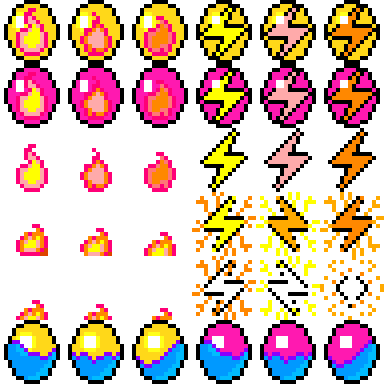
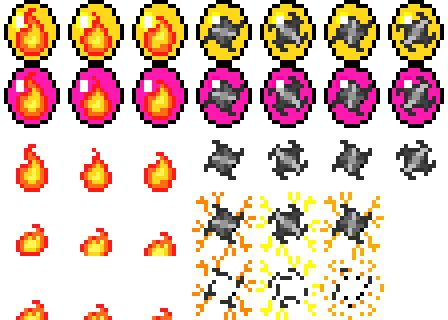
update power up artwork

diff --git a/Demo/src/GameState.cpp b/Demo/src/GameState.cpp
@@ -404,8 +404,8 @@ void GameState::loadAssets()
     spriteSheet.loadFromFile("assets/sprites/power_ups.spt", m_textureResource);
     m_sprites[SpriteID::FlameOne] = spriteSheet.getSprite("player_one_flame");
     m_sprites[SpriteID::FlameTwo] = spriteSheet.getSprite("player_two_flame");
-    m_sprites[SpriteID::LightningOne] = spriteSheet.getSprite("player_one_lightning");
-    m_sprites[SpriteID::LightningTwo] = spriteSheet.getSprite("player_two_lightning");
+    m_sprites[SpriteID::LightningOne] = spriteSheet.getSprite("player_one_star");
+    m_sprites[SpriteID::LightningTwo] = spriteSheet.getSprite("player_two_star");
     m_sprites[SpriteID::WaterOne] = spriteSheet.getSprite("player_one_water");
     m_sprites[SpriteID::WaterTwo] = spriteSheet.getSprite("player_two_water");
 
@@ -418,13 +418,13 @@ void GameState::loadAssets()
     m_animationControllers[SpriteID::FlameTwo].animationMap[AnimationController::Walk] = spriteSheet.getAnimationIndex("walk", "player_two_flame");
     m_animationControllers[SpriteID::FlameTwo].animationMap[AnimationController::Die] = spriteSheet.getAnimationIndex("die", "player_two_flame");
 
-    m_animationControllers[SpriteID::LightningOne].animationMap[AnimationController::Idle] = spriteSheet.getAnimationIndex("idle", "player_one_lightning");
-    m_animationControllers[SpriteID::LightningOne].animationMap[AnimationController::Walk] = spriteSheet.getAnimationIndex("walk", "player_one_lightning");
-    m_animationControllers[SpriteID::LightningOne].animationMap[AnimationController::Die] = spriteSheet.getAnimationIndex("die", "player_one_lightning");
+    m_animationControllers[SpriteID::LightningOne].animationMap[AnimationController::Idle] = spriteSheet.getAnimationIndex("idle", "player_one_star");
+    m_animationControllers[SpriteID::LightningOne].animationMap[AnimationController::Walk] = spriteSheet.getAnimationIndex("walk", "player_one_star");
+    m_animationControllers[SpriteID::LightningOne].animationMap[AnimationController::Die] = spriteSheet.getAnimationIndex("die", "player_one_star");
 
-    m_animationControllers[SpriteID::LightningTwo].animationMap[AnimationController::Idle] = spriteSheet.getAnimationIndex("idle", "player_two_lightning");
-    m_animationControllers[SpriteID::LightningTwo].animationMap[AnimationController::Walk] = spriteSheet.getAnimationIndex("walk", "player_two_lightning");
-    m_animationControllers[SpriteID::LightningTwo].animationMap[AnimationController::Die] = spriteSheet.getAnimationIndex("die", "player_two_lightning");
+    m_animationControllers[SpriteID::LightningTwo].animationMap[AnimationController::Idle] = spriteSheet.getAnimationIndex("idle", "player_two_star");
+    m_animationControllers[SpriteID::LightningTwo].animationMap[AnimationController::Walk] = spriteSheet.getAnimationIndex("walk", "player_two_star");
+    m_animationControllers[SpriteID::LightningTwo].animationMap[AnimationController::Die] = spriteSheet.getAnimationIndex("die", "player_two_star");
 
     //dudes to climb tower
     spriteSheet.loadFromFile("assets/sprites/tower_sprites.spt", m_textureResource);
